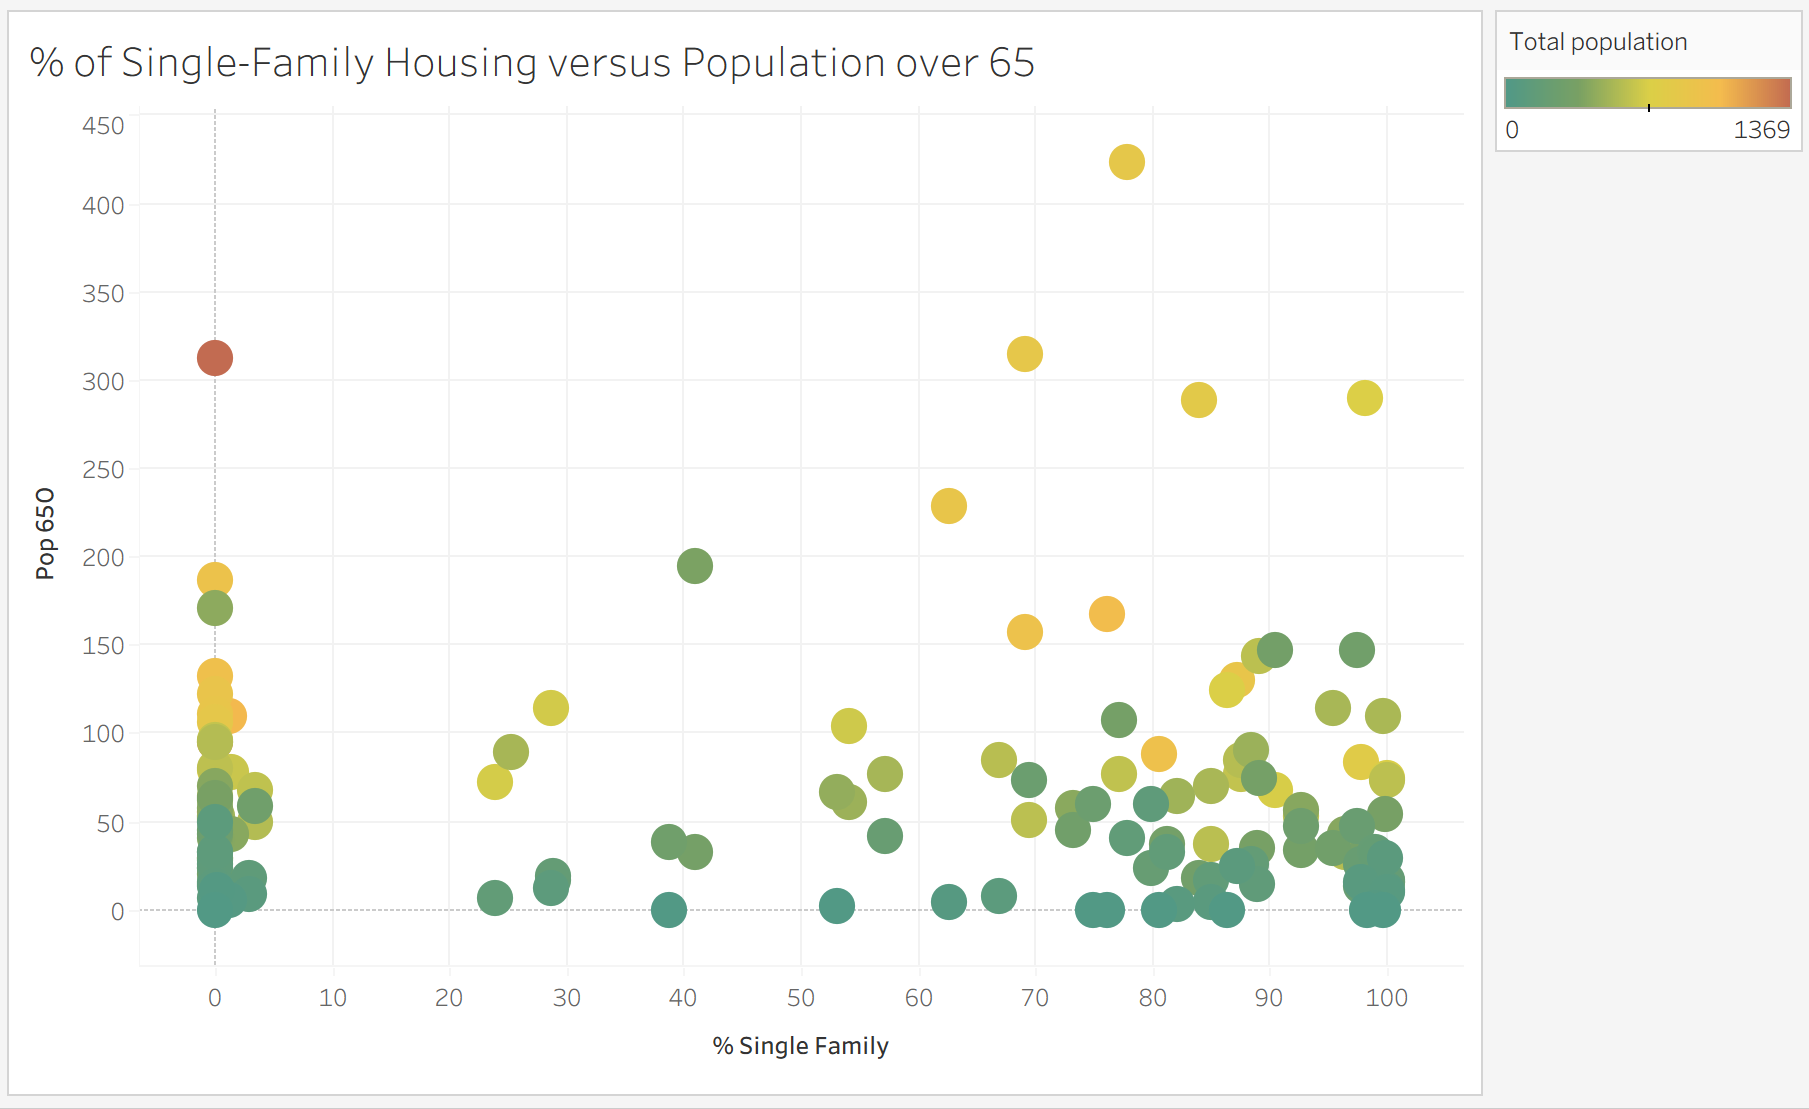
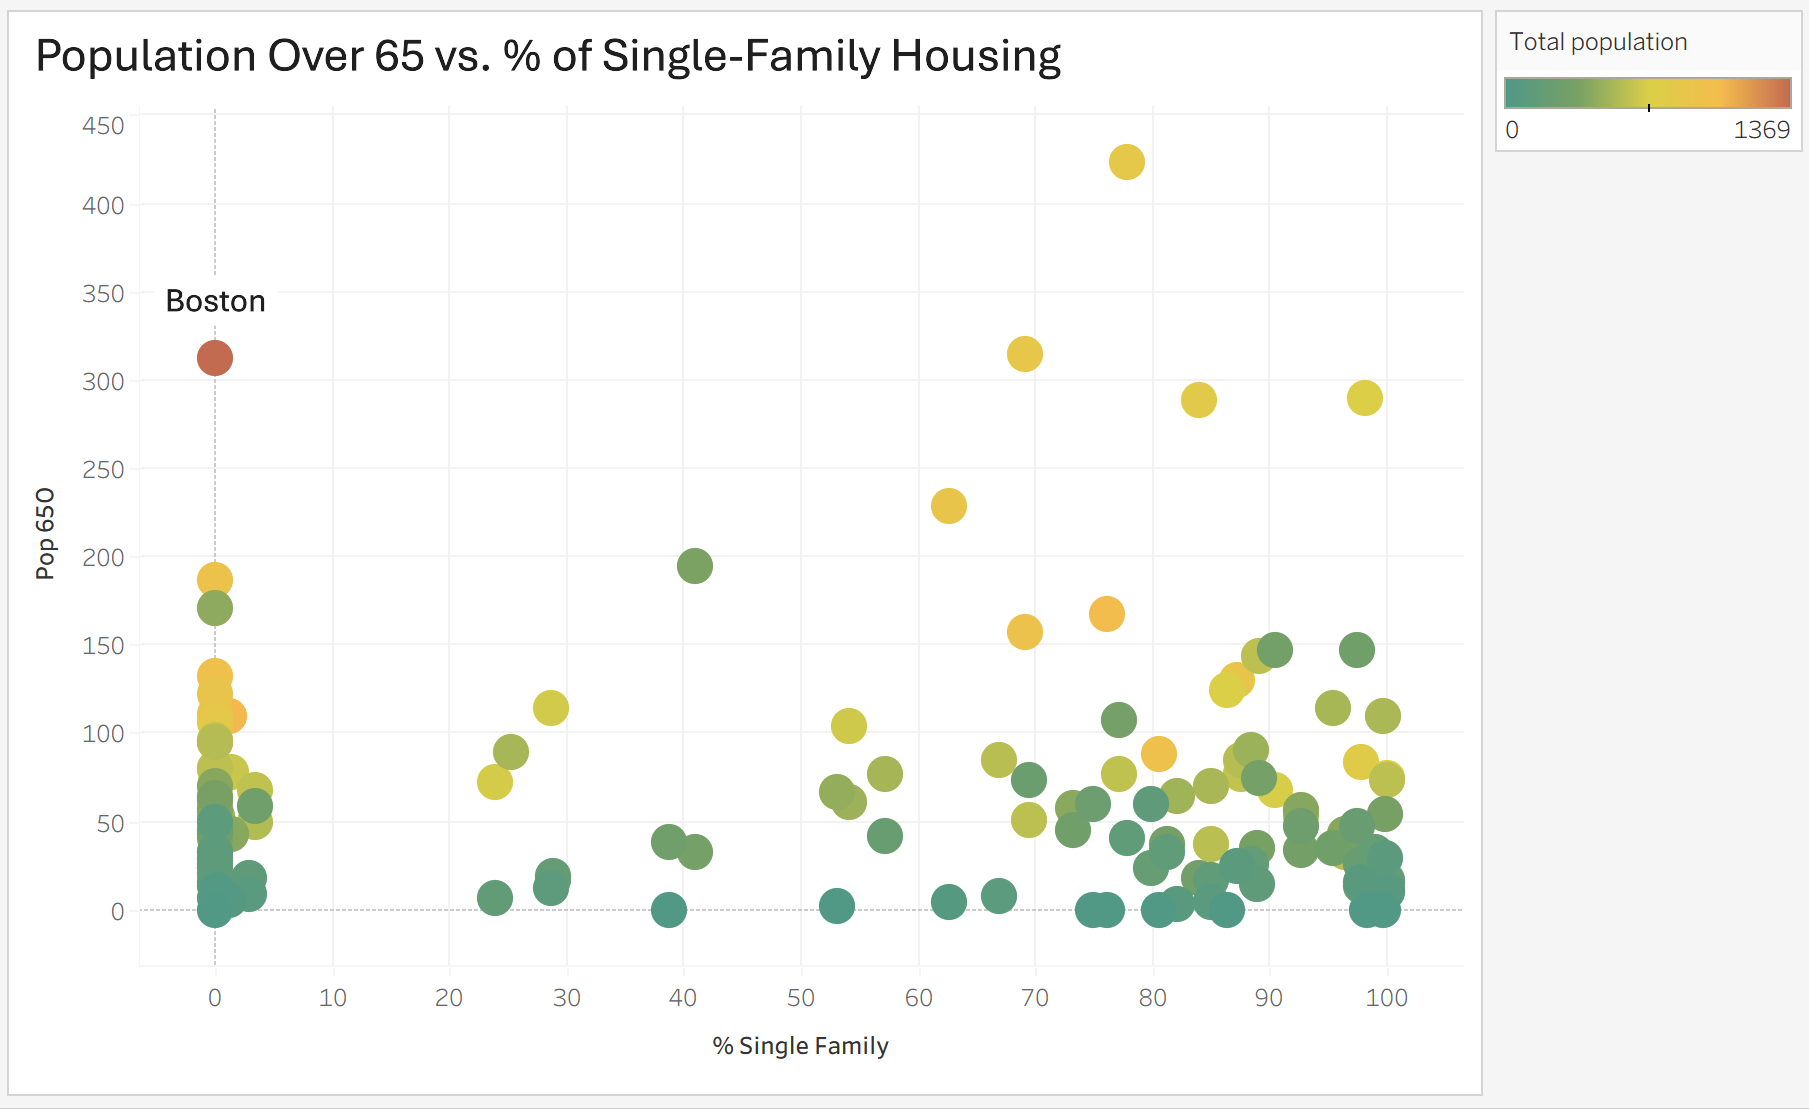
Updated assn 2

Changed region(s): [[0.0, 0.0307, 0.5882, 0.092], [0.0929, 0.2453, 0.1548, 0.3066]]

diff --git a/projects/A2_report.html b/projects/A2_report.html
@@ -33,7 +33,9 @@
             larger homes for families. This motivated me to look into whether
             this is common in Massachusetts, too where people other than 65 tend
             to live in areas with a higher percentage of single-family home
-            zoning
+            zoning. I feel like this could be the case since older people may
+            have more money to afford single-family homes and they may want more
+            space for their families.
           </p>
           <li>
             Do people of color or people with low incomes live in areas with a
@@ -45,7 +47,11 @@
             implicit strategy to price people of color and low-income people out
             of certain neighborhoods.” This makes me wonder if neighborhoods
             with a higher percentage of single-family housing end up having
-            fewer people of color and people with lower incomes.
+            fewer people of color and people with lower incomes. I feel like
+            this could be the case since single-family homes are more expensive
+            and people may not be able to afford them, so they may end up living
+            in areas with more cheaper multi-family housing options which may
+            have a lower percentage of single-family homes.
           </p>
           <li>
             Do areas with a lower percentage of single-family homes have a
@@ -57,7 +63,9 @@
             single-family-only zones, there can be more housing options for
             people. This makes me wonder if there is a correlation between the
             percentage of single-family housing and the number of people living
-            there.
+            there. I feel like there could be a correlation since areas with
+            more single-family homes may have fewer people living there since
+            they are more expensive and there is less options.
           </p>
         </ol>
       </section>
@@ -67,13 +75,127 @@
 
         <figure>
           <img
+            src="../images/assn2_graphs/sing_percent_muni.png"
+            alt=""
+            width="380"
+          />
+          <figcaption>
+            Percentage of single-family homes by Municipality [For Initial
+            Exploration]
+            <br />This was an initial exploration to understand the data a bit
+            more. Through this I realized some values is over 100%. I digged
+            into the dataset a bit more and found that municipalities were split
+            into 2 geographic records depending on whether the land was zoned
+            only for single-family housing or for other housing types. This made
+            me realized the importance of using the unique fid to explore this
+            dataset rather than just the municipality name since some
+            municipalities had multiple records.
+          </figcaption>
+        </figure>
+
+        <figure>
+          <img
+            src="../images/assn2_graphs/sing_pop_combined.png"
+            alt=""
+            width="380"
+          />
+          <figcaption>
+            Population Age Groups by Percentage of Single-Family Housing
+            (Stacked Bar) [For Q1]
+            <br />
+            This was one of my first attempts to answer question 1. I did a
+            stacked graph because I wanted to see any clear trends instead of
+            just individual data points, and I feel like as I was exploring I
+            generally turn to just scatter plot of data points and I wanted to
+            try exploring different visualizations instead.
+            <br />This stacked bar chart compares the number of residents under
+            18, ages 18–64, and ages 65+ based on the percentage of
+            single-family housing. This visualization showed me that most places
+            have more 18-64 people, and the places that have more older people
+            usually have more than 50% of single-family homes. It also clearly
+            shows places generally don't have 20–30% or 45–50% single-family
+            housing.
+          </figcaption>
+        </figure>
+
+        <figure>
+          <img
+            src="../images/assn2_graphs/sing_percent.png"
+            alt=""
+            width="380"
+          />
+          <figcaption>
+            Population Age Groups by Percentage of Single-Family Housing
+            (Scatter Plot) [For Q1]
+            <br />
+            I end up using a scatter plot for question 1 because I feel like
+            this does the best job of showing general trends in the data while
+            still showing each individual municipality's data point. I also
+            switch from just looking at the number to the percentage of people
+            in each age group. I think this helps with having a better
+            understanding of the composition in each municipality and not having
+            the size of the municipality affect whether a lot of older people
+            live there or not. This shows that places generally all have the
+            same percentage of people under 18, no matter the % of single-family
+            homes. Places with around 80-90% have more 18-64 working class which
+            makes sense since they may want places with more diversity and
+            options. It looks like areas with more than 20% of people over 65
+            generally have more than 50% of single-family homes, although some
+            do have 0%.
+          </figcaption>
+        </figure>
+
+        <figure>
+          <img
+            src="../images/assn2_graphs/sing_over_65_percent.PNG"
+            alt=""
+            width="380"
+          />
+          <figcaption>
+            Percentage of People Over 65 vs. Percentage of Single-Family Housing
+            [For Q1]
+            <br />
+            In this visualization, I did a more detailed visualization of just
+            people over 65. Because if my question was if a higher percentage of
+            old people in an area with more single-family, I can just focus on
+            this percentage. Through more inspection, there's one point
+            (Medford) with around 55% of single-family but a high percentage of
+            people over 65. However, after digging through the data metadata, I
+            found that this is one of the two areas. This one represents the
+            area Medford that is not only-single-family, and it only has a
+            population of 3 (2 of which is over 65), so I think that data point
+            is an outlier. The other potential outlier is the one with 41%
+            single-family homes and 55% of older people. That one was Quincy,
+            which is part of Greater Boston. I wonder if this one also makes
+            sense, as it is made of older people who want to live around Boston,
+            but since it is very busy and city-like, they may choose to move
+            somewhere else that has a bit more single-family homes but not too
+            far from Boston.
+          </figcaption>
+        </figure>
+        <figure>
+          <img
             src="../images/assn2_graphs/older_vs_sing_fam_%25.png"
             alt=""
             width="380"
           />
           <figcaption>
-            Percentage of single-family homes vs. percentage of residents 65 and
-            older
+            Population of People Over 65 vs. Percentage of Single-Family Housing
+            [For Q1]
+            <br />
+            In this visualization, instead of the general percentage, I wanted
+            to look at the pure number of people older than 65. I used the
+            population of the area as the coloring so people can still get a
+            sense of an area is just very small, and that's why they may have
+            fewer people. This was interesting because this reveals that places
+            with a higher percentage of single families do generally have more
+            older people or a smaller population. Areas with 0 percent of
+            single-family are generally under 200 people over 65. While the
+            areas that have more than 200 people over 65 have more than 50% of
+            single-family housing. There is one outlier with 0 percent single
+            family and over 300 people over 65. However, I found out that it’s
+            Boston, so it makes sense that it has both a high general population
+            and thus more people who will be over 65.
           </figcaption>
         </figure>
 
@@ -84,8 +206,18 @@
             width="380"
           />
           <figcaption>
-            Percentage of single-family homes vs. percentage of residents of
-            color in areas with less than 50% single-family homes
+            Black or African American Population and Households with Income
+            under $10000 in Areas with Less than 50% of Single Family Homes [For
+            Q2]
+
+            <br />
+            I wanted to try exploring the filtering option with these next 2
+            figures. In this one I filter for areas with less than 50%
+            single-family homes. In areas with fewer single-family homes, I
+            found that there is generally more spread of the number of people
+            with low income from 0 to almost 200. The number of African
+            Americans also looks pretty diverse, though, across all
+            municipalities. 
           </figcaption>
         </figure>
 
@@ -96,20 +228,115 @@
             width="380"
           />
           <figcaption>
-            Percentage of single-family homes vs. percentage of residents of
-            color in areas with more than 50% single-family homes
+            Black or African American Population and Households with Income
+            under $10000 in Areas with More than 50% of Single Family Homes [For
+            Q2]
+            <br />
+            I filter for areas with more than 50% single-family homes in this
+            visualization. In these areas, it looks like there are generally
+            fewer people with low income (mostly under 75). The spread of the
+            number of African Americans is really similar, though. There is an
+            area (Randolph) with a lot of African Americans, and I couldn't
+            think of why even with additional research. In general, this is
+            surprising because I would have expected a clearer difference if a
+            higher percentage of single-family home zoning was actually charging
+            people out of those areas.
           </figcaption>
         </figure>
 
         <figure>
-          <p>Population vs. Single-Family Homes</p>
+          <img
+            src="../images/assn2_graphs/race_income_w_outliers.png"
+            alt=""
+            width="380"
+          />
+          <figcaption>
+            Percentage of Black or African American Population or Households
+            with Income under $10000 vs. percentage of Single Family Homes [For
+            Q2]
+            <br />Instead of using just raw counts, I plotted three ratios
+            together: nhaa/pop, incu10/pop, and (nhaa + incu10)/pop (where nhaa
+            = Non-Hispanic Black or African American population and incu10 =
+            households with income under $10,000). This allowed me to compare
+            the percentage of these groups versus different percentages of
+            single-family housing. I realized that (nhaa + incu10)/pop is not a
+            perfect measure because it may double count people who are both NHAA
+            and INCU10. However, since the recorded NHAA population is generally
+            low in many municipalities, I think this combined metric is still
+            fine for general data exploration. From this visualization, I
+            noticed a slight upward trend, with higher percentages of NHAA or
+            INCU10 residents appearing in areas where more than 50% of housing
+            is single-family. This is surprising, given the common argument that
+            single-family zoning prices out people of color and lower-income
+            residents.
+          </figcaption>
+        </figure>
+
+        <figure>
+          <img
+            src="../images/assn2_graphs/race_income_wo_outliers.png"
+            alt=""
+            width="380"
+          />
+          <figcaption>
+            Percentage of Black or African American Population or Households
+            with Income under $10000 vs. percentage of Single Family Homes
+            (Without Outliers) [For Q2]
+            <br />
+            In this visualization, I filter out areas that have a percentage of
+            nhaa/pop or incu10/pop over 1, since that’s not possible. Through
+            closer checks, these areas have very small populations and large
+            populations of incu10, and I think that’s because of data
+            misentering. This allowed for a more useful y-axis.
+            <br />
+            Through this, you can more clearly see an upward trend, especially
+            for housing under 1000. Areas that have more than 40% of people
+            earning under $10000 are all in areas with more than 50%
+            single-family (other than areas with 0% single-family and Melrose).
+            I think this could make sense in the context of Massachusetts, since
+            it is a more liberal state that may better supports lower-income
+            people and people of color to live in these areas. People living in
+            Massachusetts are probably more well-off too since we are in a
+            generally more pricey area. 
+          </figcaption>
+        </figure>
+
+        <figure>
           <img
             src="../images/assn2_graphs/pop_vs_sing_fam_%25.png"
             alt=""
             width="380"
           />
           <figcaption>
-            Population vs. percentage of single-family homes.
+            Population vs. Percentage of Single Family Homes (By MBTA Community
+            Status) [For Q3]
+            <br />
+
+            In this figure, blue is MBTA communities, while red is non-MBTA
+            communities. MBTA communities are municipalities served by MBTA
+            transit and are required to allow multifamily housing in at least
+            one district (Credit:
+            <a
+              href="https://www.mass.gov/info-details/multi-family-zoning-requirement-for-mbta-communities"
+              >mass.gov</a
+            >). Most municipalities in the dataset are MBTA communities.
+            <br />
+            It looks like areas with a higher percentage of single-family
+            housing actually tend to have slightly higher populations overall.
+            In general, the areas with the highest populations (over 800) either
+            have 0% or around 60–90% single-family housing which is surprising.
+            I think this figure also does a great job showing that generally
+            most areas have a high percentage of single-family housing and also
+            a large populations.
+
+            <br />
+            I do wish this visualization can consider land area too, since some
+            smaller municipalities may be 100% single-family but can only
+            support a small population due to size constraints. Whether a
+            municipality is an MBTA community does not show a strong independent
+            trend, except that non-MBTA communities either have 0% or over 80%
+            single-family zoning. However some MBTA communities have low
+            populations while others have very high populations.
           </figcaption>
         </figure>
       </section>
@@ -117,7 +344,38 @@
       <section>
         <h2>Summary</h2>
 
-        <p>WRITE FINAL SUMMARY HERE.</p>
+        <p>
+          In general, I think this dataset allowed for great initial exploration
+          of how the percentage of single-family housing can affect the age,
+          race, income, and population count of the people living there.
+          However, I feel like there are some errors in data entry, specifically
+          in the case where the number of households earning under $10,000 is
+          higher than the total population. I also think land size is an
+          important context that can be added, since it affects how many people
+          an area can actually support.
+
+          <br />
+          <br />
+          More specifically, I learned that people over 65 generally do live in
+          areas with a higher percentage of single-family housing, which aligns
+          with my experiences growing up in Florida, where many retired people
+          tend to live in larger, single-family homes. It was interesting to
+          look more closely at cities like Boston, Medford, and Quincy to better
+          understand why their values fall outside the general trend, though. I
+          was surprised that there was not a clearer trend showing a higher
+          number of people of color or lower-income residents in areas with less
+          single-family housing. I think this could be explored further by
+          comparing the number of people earning different income levels across
+          varying percentages of single-family housing.
+          <br />
+          <br />
+          It is also surprising that areas with larger populations generally
+          have higher percentages of single-family homes. These realizations
+          seem to counter the ideas supported by the readings. It was also
+          interesting to see that whether a place is or is not an MBTA community
+          does not really seem to strongly affect the number of people living
+          there.
+        </p>
       </section>
     </main>
   </body>

diff --git a/projects/index.html b/projects/index.html
@@ -17,9 +17,9 @@
     <h1>Projects</h1>
     <div class="projects">
       <article>
-        <h2>Lorem ipsum dolor sit.</h2>
+        <h2>Assignment 2: Exploratory Visual Analysis</h2>
         <img src="https://vis-society.github.io/labs/2/images/empty.svg" alt="">
-        <p>Lorem ipsum dolor sit amet consectetur adipisicing elit. Maxime aut ratione dignissimos quae distinctio vel ducimus molestias recusandae, corporis vero? Ducimus unde omnis perspiciatis quia magni at reiciendis labore aut?</p>
+        <a href="A2_report.html">View Assignment 2 Report</a>
       </article>
       <article>
         <h2>Maiores quisquam pariatur odit.</h2>
